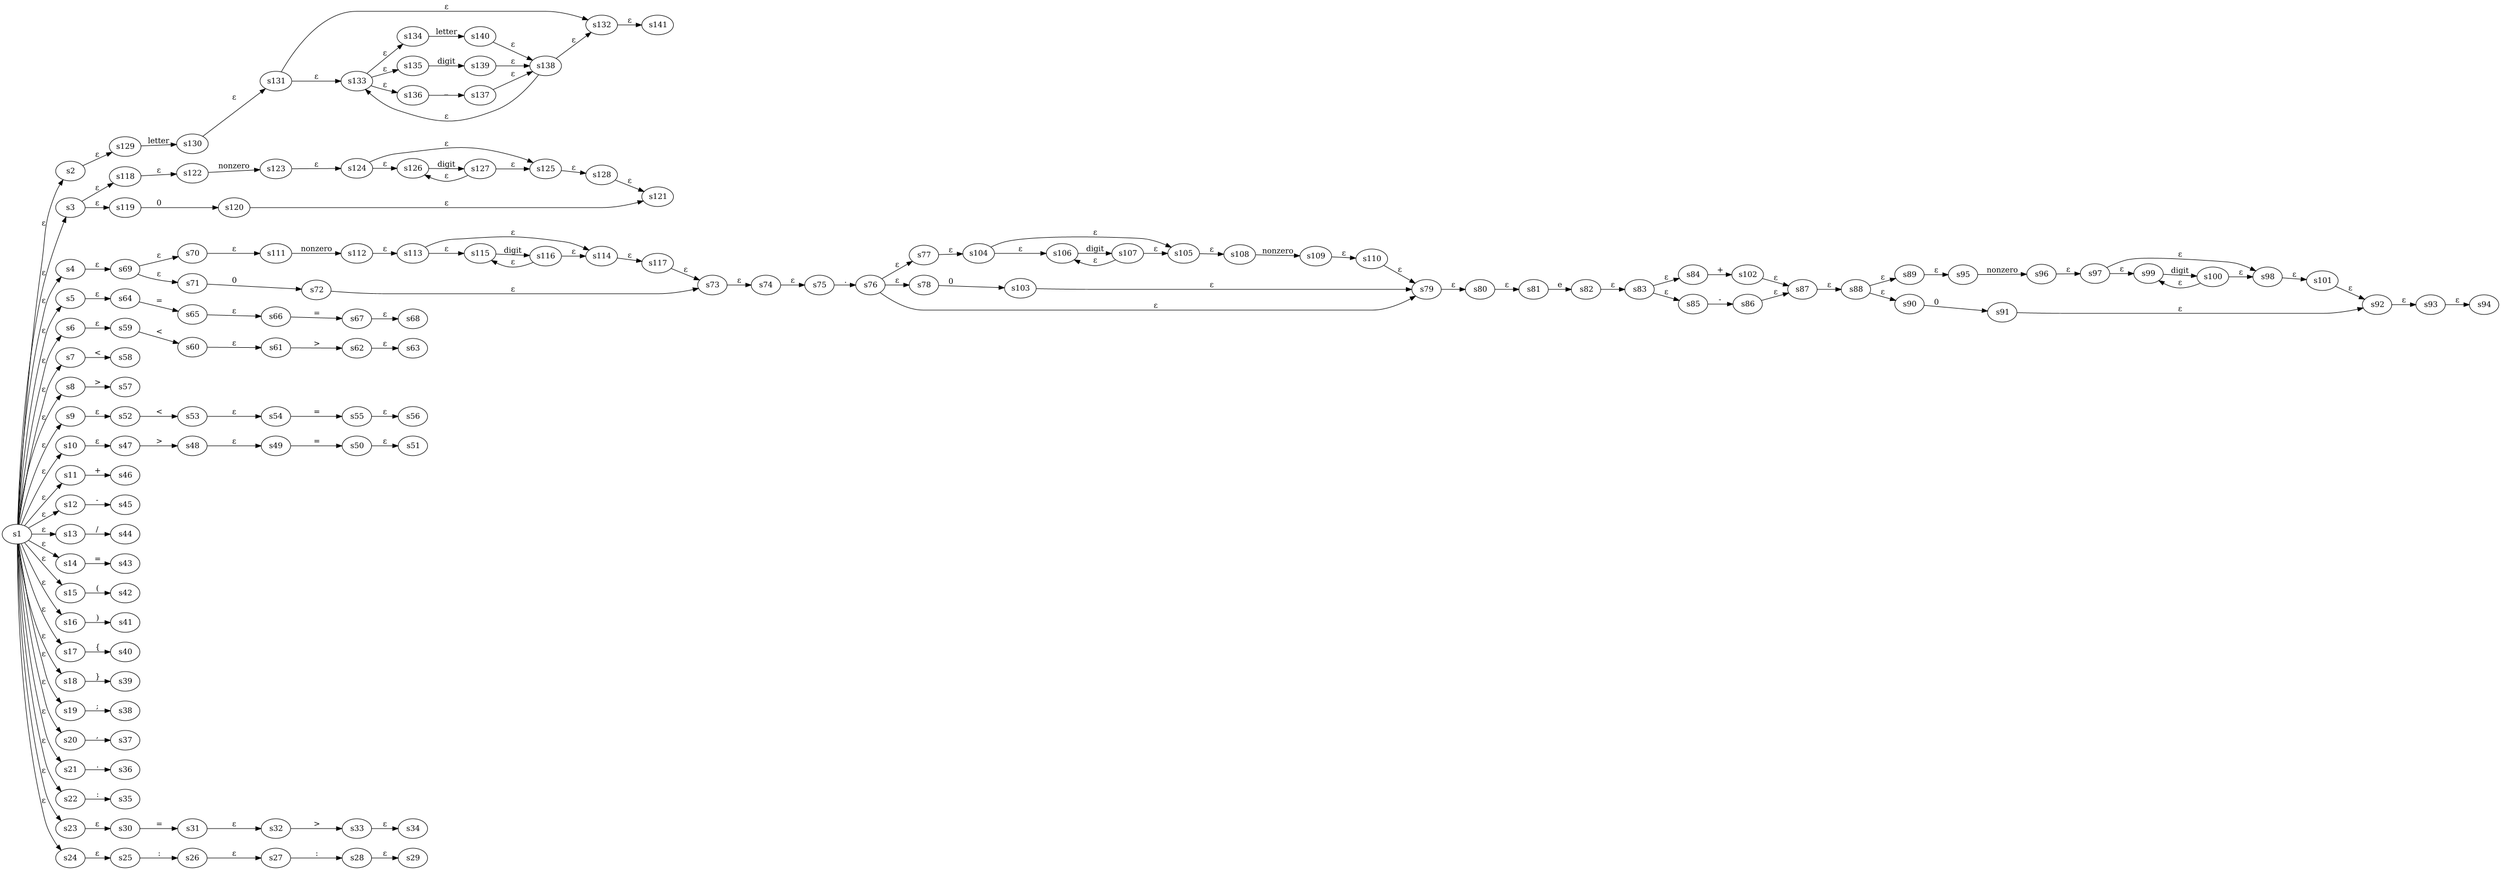
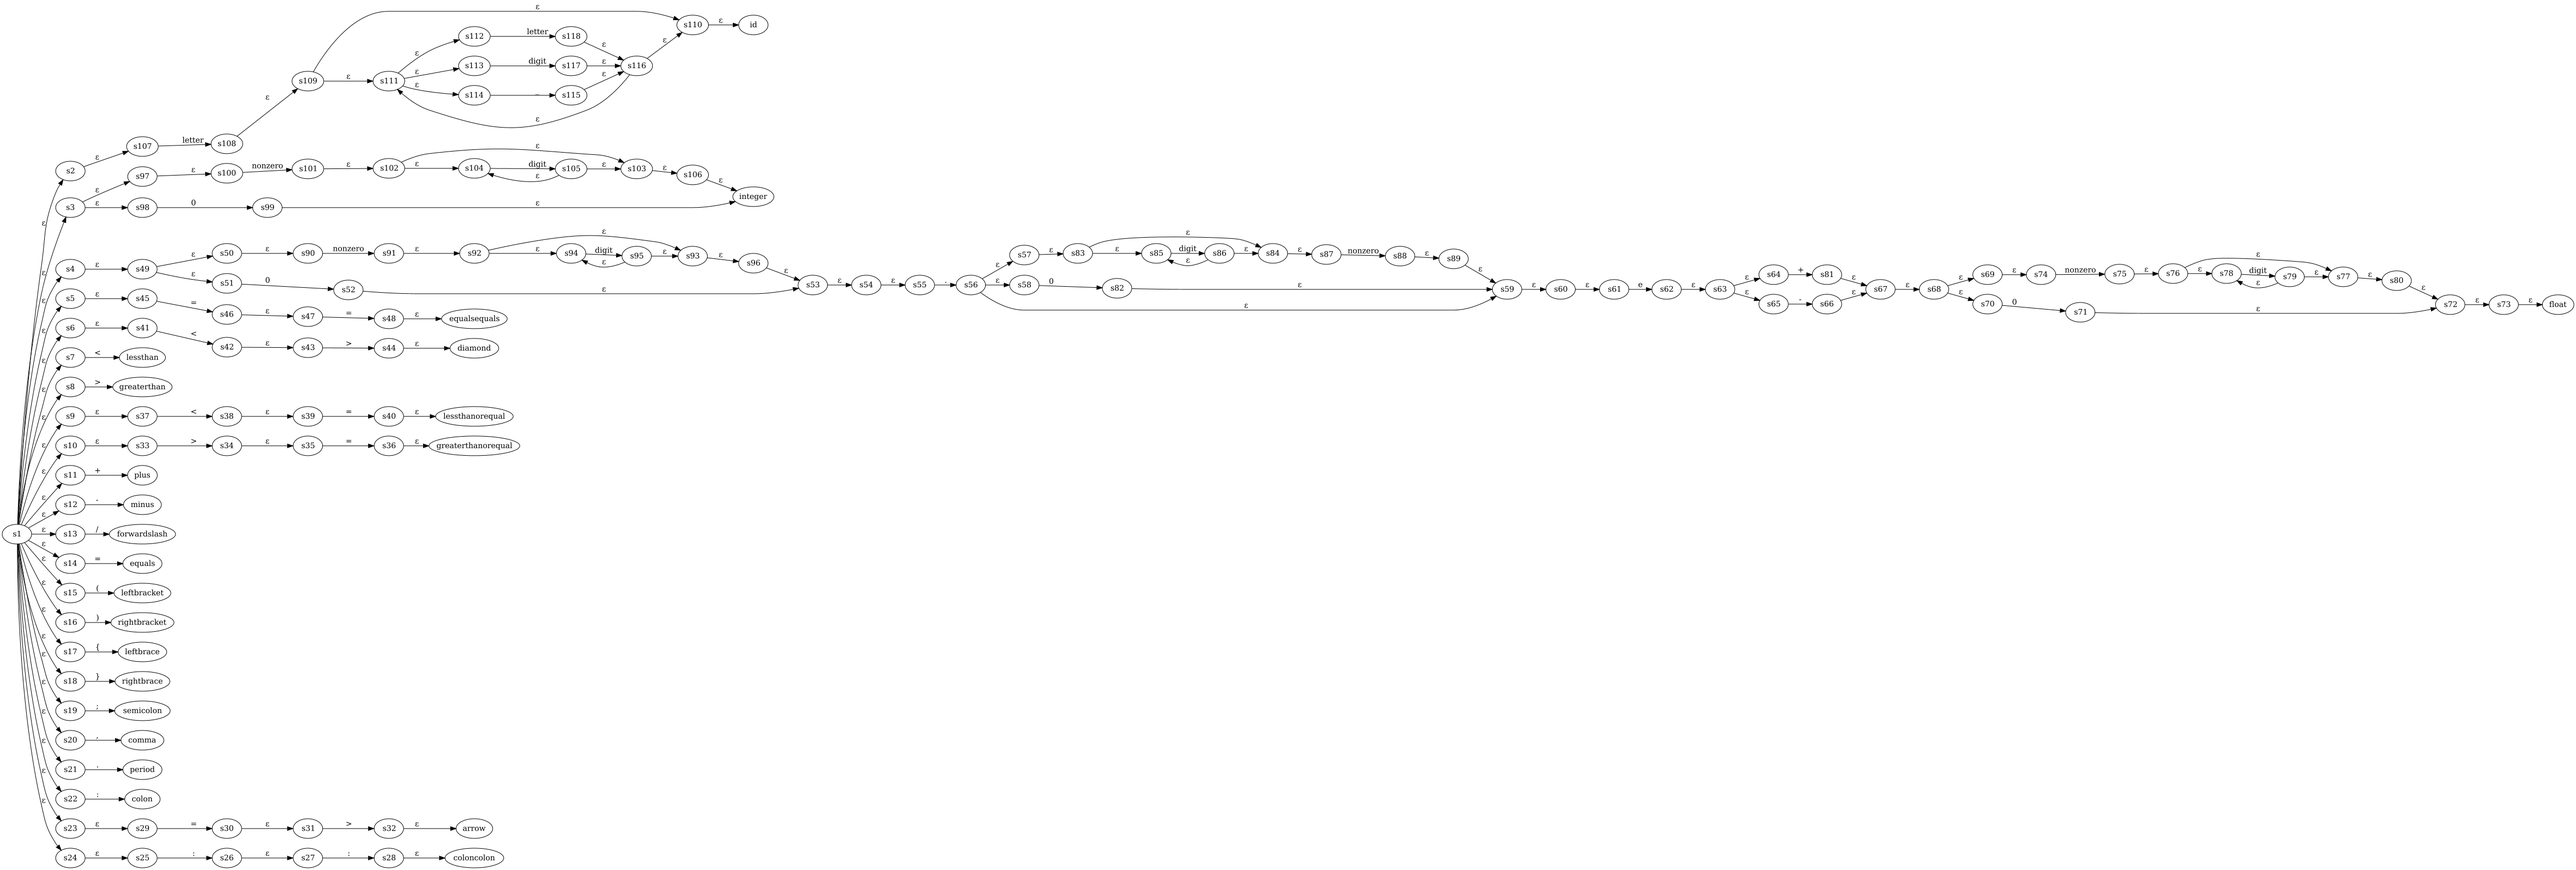
terminal labels have label of token

diff --git a/src/DfaGeneration/AutomataVisualizer.java b/src/DfaGeneration/AutomataVisualizer.java
@@ -43,6 +43,8 @@ public class AutomataVisualizer {
                 MutableNode childNode;
                 if (seen.containsKey(childState))
                     childNode = seen.get(childState);
+                else if (childState.getPathToken() != null && childState.isTerminal())
+                     childNode = mutNode(childState.getPathToken().getName());
                 else
                     childNode = mutNode("s" + String.valueOf(i++));
 

diff --git a/src/DfaGeneration/State.java b/src/DfaGeneration/State.java
@@ -57,6 +57,10 @@ public class State {
         return edges.isEmpty();
     }
 
+    public Token getPathToken() {
+        return pathToken;
+    }
+
     public class Edge {
        public String label;
        public State destination;
